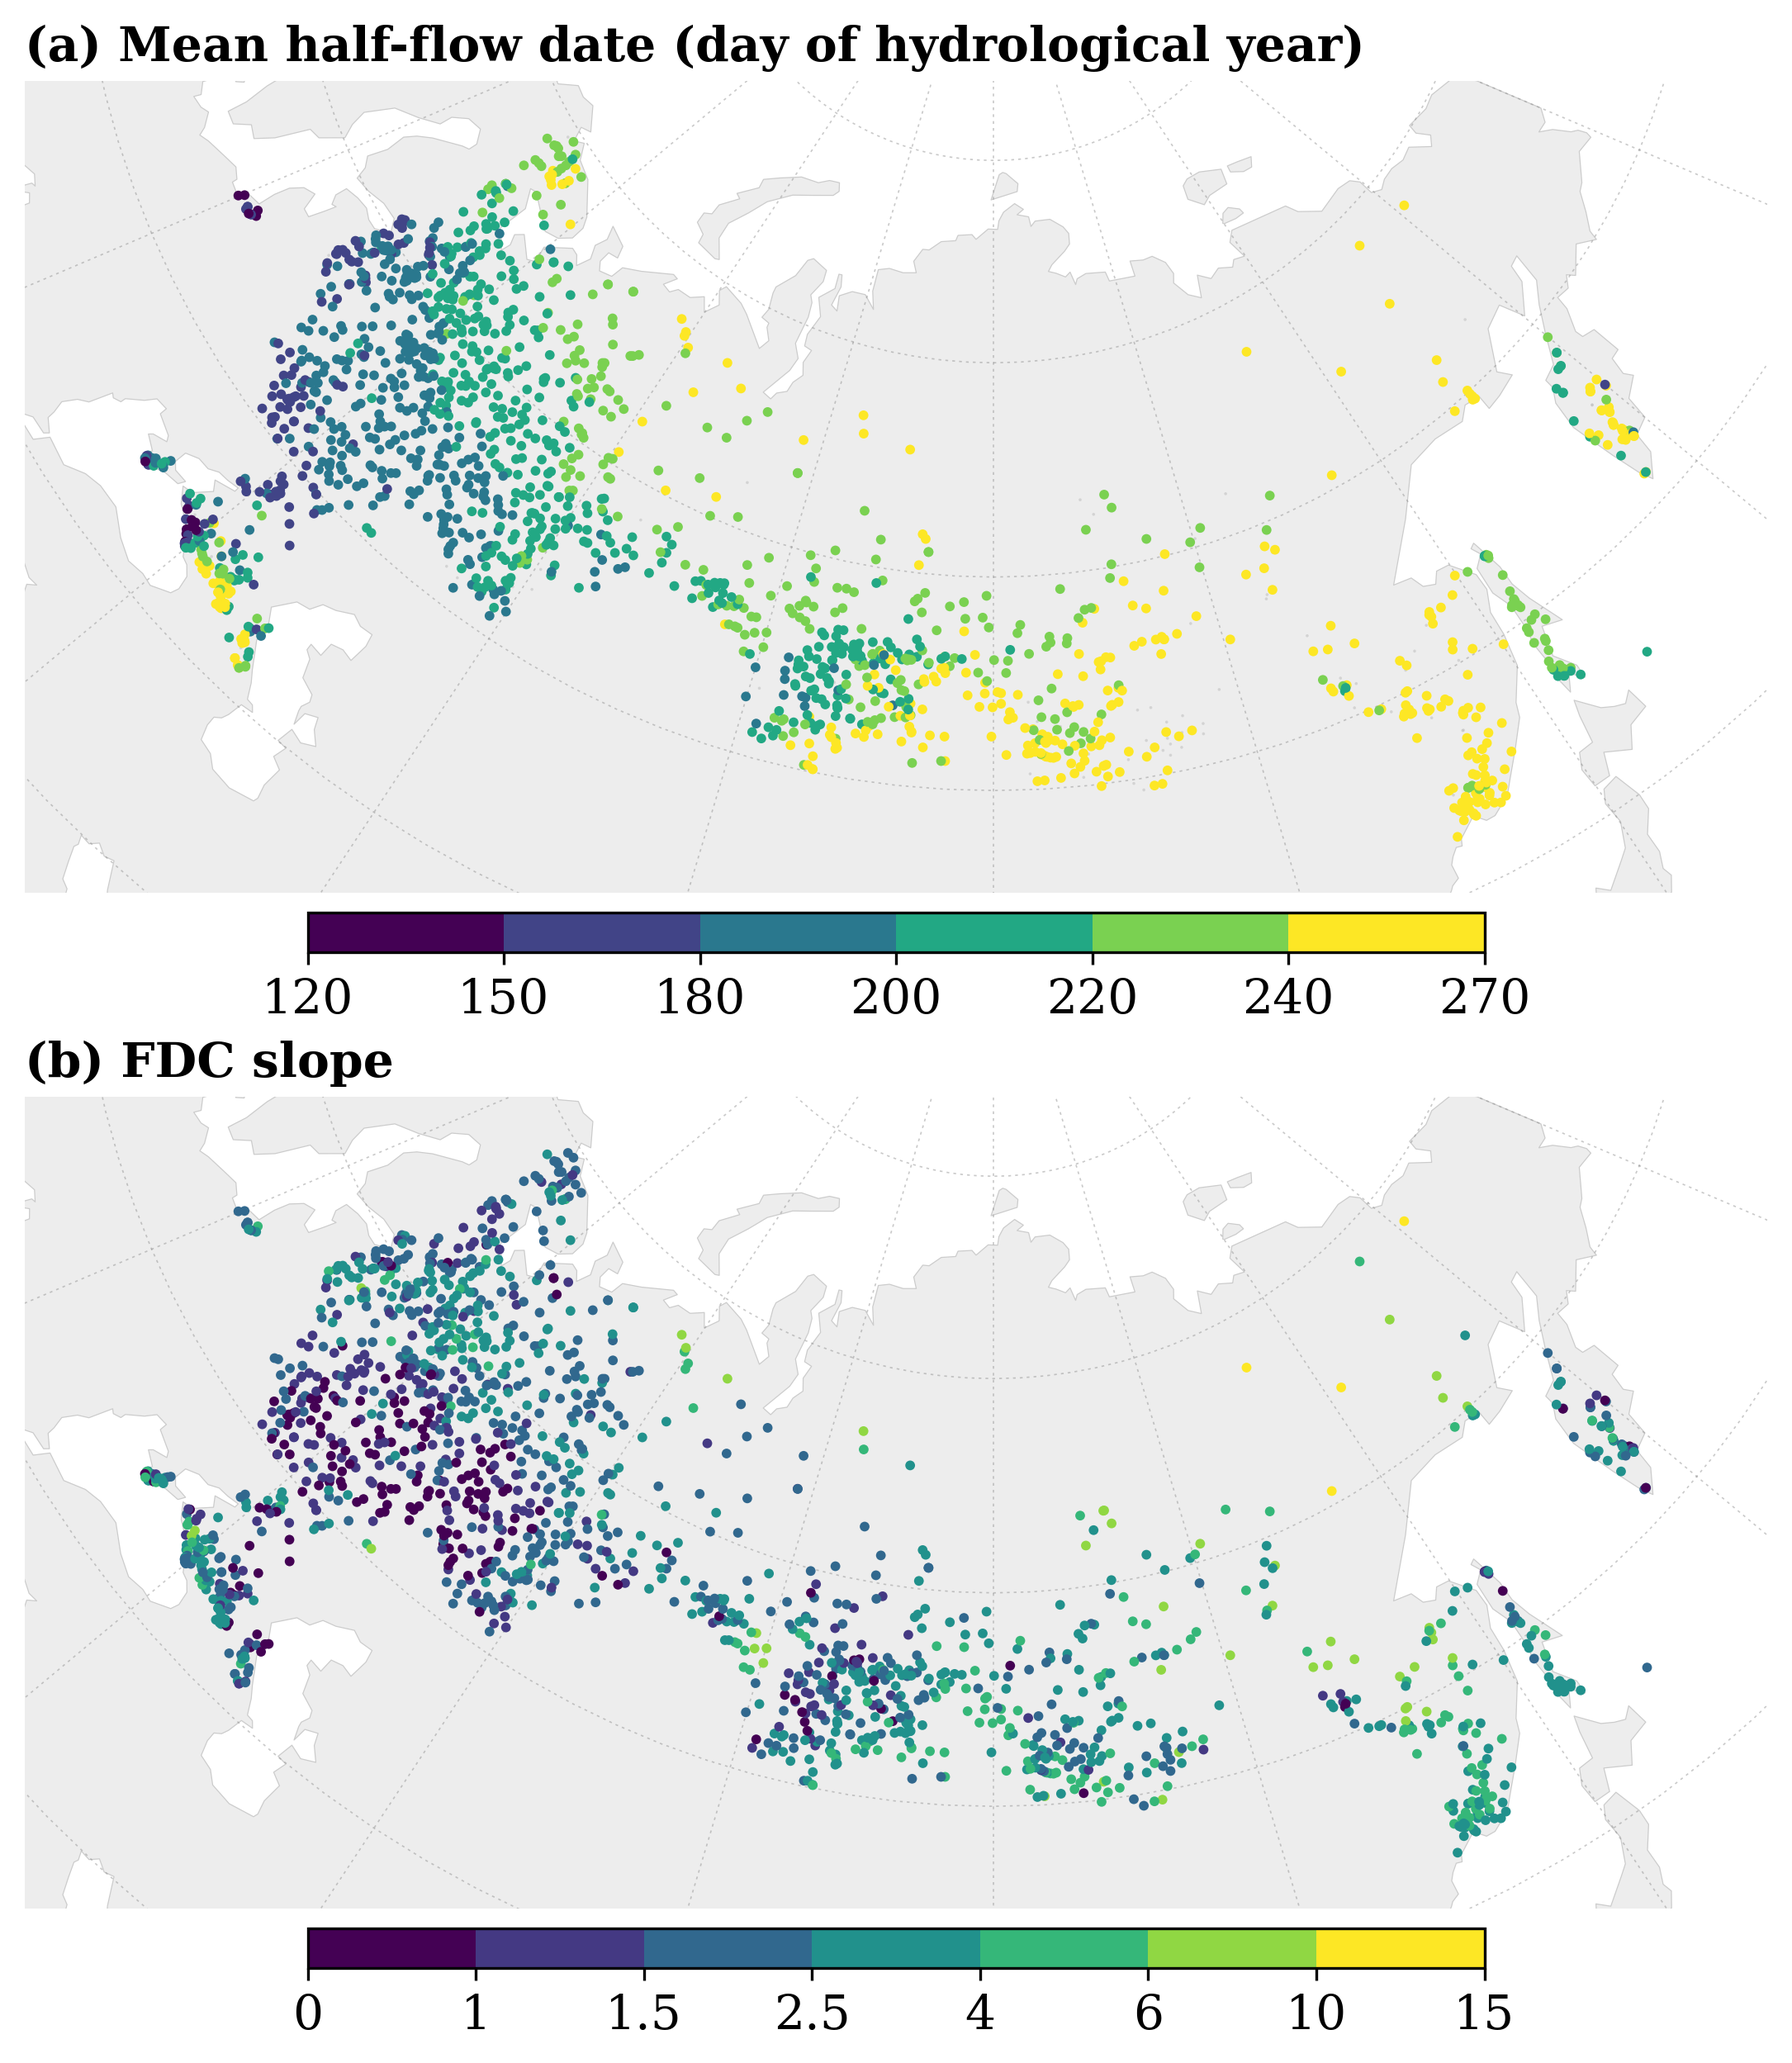
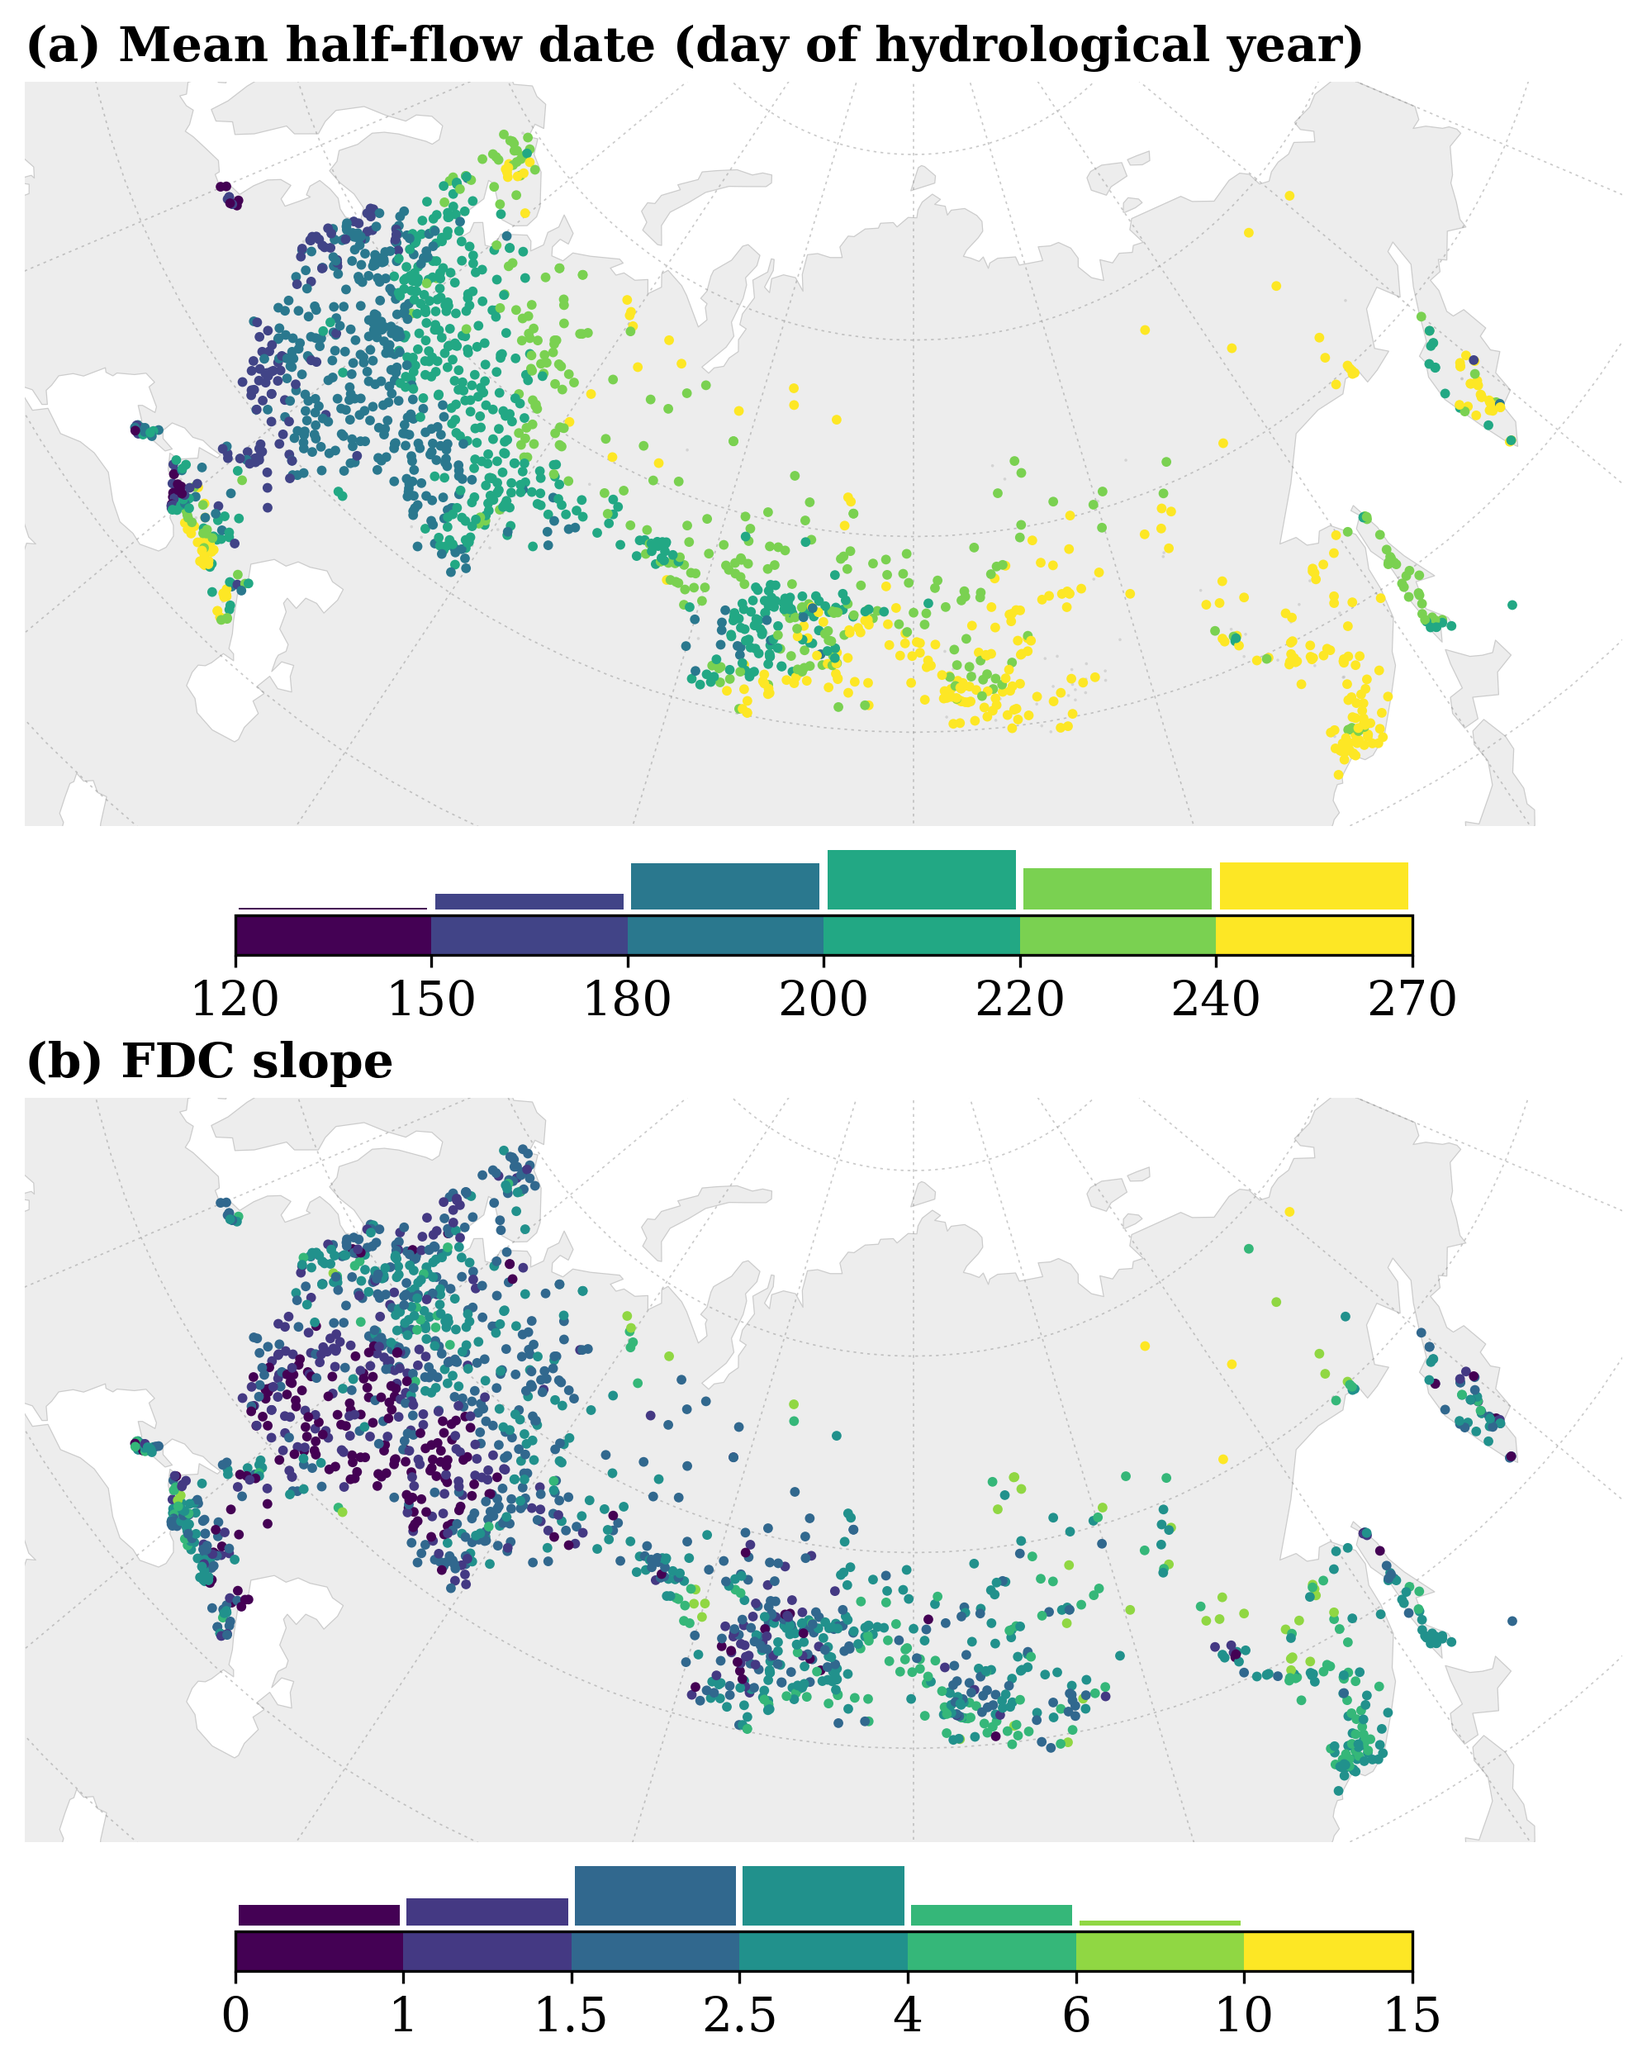
feat(plots): hero basemap helpers, scale bar, colorbar histograms; submodule bump
_hero_background (MERIT mosaic cached in .tmp/, RiverATLAS >=25000 km2)
and _scale_bar are Fig-1-only; _colorbar_histogram rides every discrete
horizontal colorbar in scatter_map (B1-B4). Lint clean; md5 parity
verified.

Claude-Session: https://claude.ai/code/session_01Cpx3dUV4LhhdShENRW3yTV

diff --git a/scripts/regenerate_gauge_network_figure.py b/scripts/regenerate_gauge_network_figure.py
@@ -188,6 +188,106 @@ def load_data() -> tuple[gpd.GeoDataFrame, pd.Series]:
     return gauge, size_counts
 
 
+def _hero_background(ax: plt.Axes, aea: ccrs.Projection) -> None:
+    """Hillshade + major-river backdrop for the hero map (CAMELS-CH/FR convention).
+
+    Only Fig. 1 gets this treatment; every repeated attribute/signature map keeps the
+    flat gray silhouette, matching the hero/small-multiple split used by CAMELS-FR and
+    LamaH-CE. The MERIT mosaic (253 tiles, decimated to 0.05 deg/px) and the RiverATLAS
+    extract are cached in .tmp/ — delete the cache files to force a rebuild.
+    """
+    from matplotlib.colors import LightSource
+    import numpy as np
+    import pyogrio
+    import rasterio
+
+    # Bounds aligned to the 5-degree MERIT tile grid so every tile lands whole
+    lon0, lon1, lat0, lat1 = 15, 180, 40, 85
+    cache = PROJECT_ROOT / ".tmp"
+    cache.mkdir(exist_ok=True)
+
+    dem_npz = cache / "hero_dem_0p05.npz"
+    if dem_npz.exists():
+        z = np.load(dem_npz)["z"]
+    else:
+        px = 100  # each 5-degree MERIT tile decimated to 100 px -> 0.05 deg/px
+        z = np.full(((lat1 - lat0) * 20, (lon1 - lon0) * 20), np.nan, dtype="float32")
+        rasters = PROJECT_ROOT / "data/World/SpatialData/merit_global/adjusted_elevation/rasters"
+        for f in sorted(rasters.glob("n*_elv.tif")):
+            m = re.search(r"n(\d+)e(\d+)", f.name)
+            if m is None:
+                continue
+            tlat, tlon = int(m.group(1)), int(m.group(2))
+            if not (lat0 <= tlat < lat1 and lon0 <= tlon < lon1):
+                continue
+            with rasterio.open(f) as src:
+                a = src.read(1, out_shape=(px, px)).astype("float32")
+            a[a < -100] = np.nan  # MERIT nodata (ocean)
+            row0 = (lat1 - (tlat + 5)) * 20
+            col0 = (tlon - lon0) * 20
+            z[row0 : row0 + px, col0 : col0 + px] = a
+        np.savez_compressed(dem_npz, z=z)
+
+    # vert_exag tuned visually: 5 was invisible at print scale, 15 keeps the plains
+    # light while making the eastern ranges read at \textwidth
+    shade = LightSource(azdeg=315, altdeg=45).hillshade(
+        np.nan_to_num(z, nan=0.0), vert_exag=15.0, dx=2800.0, dy=5500.0
+    )
+    ax.imshow(
+        np.ma.masked_where(np.isnan(z), shade),
+        extent=(lon0, lon1, lat0, lat1),
+        transform=ccrs.PlateCarree(),
+        origin="upper",
+        cmap="gray",
+        vmin=0.0,
+        vmax=1.0,
+        alpha=0.45,
+        zorder=1.05,
+        interpolation="bilinear",
+        regrid_shape=1200,
+    )
+
+    rivers_gpkg = cache / "hero_rivers.gpkg"
+    if rivers_gpkg.exists():
+        rivers = gpd.read_file(rivers_gpkg)
+    else:
+        rivers = pyogrio.read_dataframe(
+            str(PROJECT_ROOT / "data/World/SpatialData/HydroSheds/RiverATLAS_v10.gdb"),
+            layer="RiverATLAS_v10",
+            columns=["UPLAND_SKM"],
+            where="UPLAND_SKM >= 25000",
+            bbox=(lon0, lat0, lon1, lat1),
+        )
+        rivers.to_file(rivers_gpkg, driver="GPKG")
+    rivers.to_crs(aea.proj4_init).plot(ax=ax, color="#5b8cb8", linewidth=0.45, alpha=0.6, zorder=1.2)
+
+
+def _scale_bar(ax: plt.Axes, length_km: float = 1000.0, fontsize: int = 14) -> None:
+    """Corner scale bar in projected meters; approximate on an equal-area conic.
+
+    Hero map only (CAMELS-CH/FR/LamaH precedent). No north arrow: on a conic spanning
+    165 degrees of longitude, north varies visibly across the map, so a single arrow
+    would be wrong — the meridian lines carry that information.
+    """
+    xlim, ylim = ax.get_xlim(), ax.get_ylim()
+    x0 = xlim[0] + 0.04 * (xlim[1] - xlim[0])
+    y0 = ylim[0] + 0.06 * (ylim[1] - ylim[0])
+    length_m = length_km * 1000.0
+    tick = 0.012 * (ylim[1] - ylim[0])
+    ax.plot([x0, x0 + length_m], [y0, y0], color="black", lw=1.6, solid_capstyle="butt", zorder=6)
+    for x in (x0, x0 + length_m):
+        ax.plot([x, x], [y0 - tick, y0 + tick], color="black", lw=1.2, zorder=6)
+    ax.text(
+        x0 + length_m / 2,
+        y0 + tick * 1.6,
+        f"{int(length_km)} km",
+        ha="center",
+        va="bottom",
+        fontsize=fontsize,
+        zorder=6,
+    )
+
+
 def build_figure(gauge: gpd.GeoDataFrame, size_counts: pd.Series) -> plt.Figure:
     """Assemble the two-panel study-area figure.
 
@@ -224,6 +324,8 @@ def build_figure(gauge: gpd.GeoDataFrame, size_counts: pd.Series) -> plt.Figure:
     ne_land.to_crs(aea.proj4_init).plot(
         ax=ax_map, color="#EDEDED", edgecolor="#CCCCCC", linewidth=0.3, zorder=1
     )
+    _hero_background(ax_map, aea)
+    _scale_bar(ax_map)
 
     counts = gauge["kg"].value_counts()
     # Classes with MERGE_MAX or fewer catchments merge into a grey "other" class:

diff --git a/src/plots/paper_maps.py b/src/plots/paper_maps.py
@@ -146,6 +146,42 @@ def _add_graticule(
     )
 
 
+def _format_edge_labels(edges: np.ndarray) -> list[str]:
+    """Clean numeric tick labels: no scientific notation, no trailing zeros."""
+    labels = []
+    for v in edges:
+        if v == 0:
+            labels.append("0")
+        elif v == int(v) and abs(v) >= 1:
+            labels.append(f"{int(v)}")
+        else:
+            labels.append(f"{v:g}")
+    return labels
+
+
+def _colorbar_histogram(cb, values: np.ndarray, edges: np.ndarray, cmap) -> None:  # noqa: ANN001
+    """Draw a per-class frequency bar row above a horizontal discrete colorbar.
+
+    CAMELS-FR / LamaH-CE convention: the legend doubles as a histogram — one bar
+    per colour class, aligned above its segment (BoundaryNorm colorbars use uniform
+    segment widths), so the sample distribution rides along without an extra panel.
+    Values are clipped to the outer edges first so the tally matches the plotted dots.
+    """
+    n = len(edges) - 1
+    counts, _ = np.histogram(np.clip(values, edges[0], edges[-1]), bins=edges)
+    hax = cb.ax.inset_axes([0.0, 1.15, 1.0, 1.6])
+    hax.bar(
+        np.arange(n) + 0.5,
+        counts,
+        width=0.96,
+        color=[cmap(i) for i in range(n)],
+        edgecolor="none",
+    )
+    hax.set_xlim(0, n)
+    hax.set_ylim(0, float(counts.max()) * 1.05 if counts.max() else 1.0)
+    hax.axis("off")
+
+
 def _auto_bins(values: np.ndarray, n_bins: int = 6) -> np.ndarray:
     """Generate evenly-spaced bin edges from data range."""
     vmin, vmax = float(np.nanmin(values)), float(np.nanmax(values))
@@ -261,19 +297,12 @@ def scatter_map(
                 aspect=30,
             )
             cb.set_ticks(edges.tolist())
-            # Clean numeric labels: no scientific notation, no trailing zeros
-            labels = []
-            for v in edges:
-                if v == 0:
-                    labels.append("0")
-                elif v == int(v) and abs(v) >= 1:
-                    labels.append(f"{int(v)}")
-                else:
-                    labels.append(f"{v:g}")
-            cb.set_ticklabels(labels)
+            cb.set_ticklabels(_format_edge_labels(edges))
             cb.ax.tick_params(labelsize=colorbar_ticklabelsize)
             if colorbar_label:
                 cb.set_label(colorbar_label, fontsize=10)
+            if colorbar_orientation == "horizontal":
+                _colorbar_histogram(cb, values, edges, cmap)
 
     if show_nan and bool(nan_mask.any()):
         nan_gdf = gdf[nan_mask]
